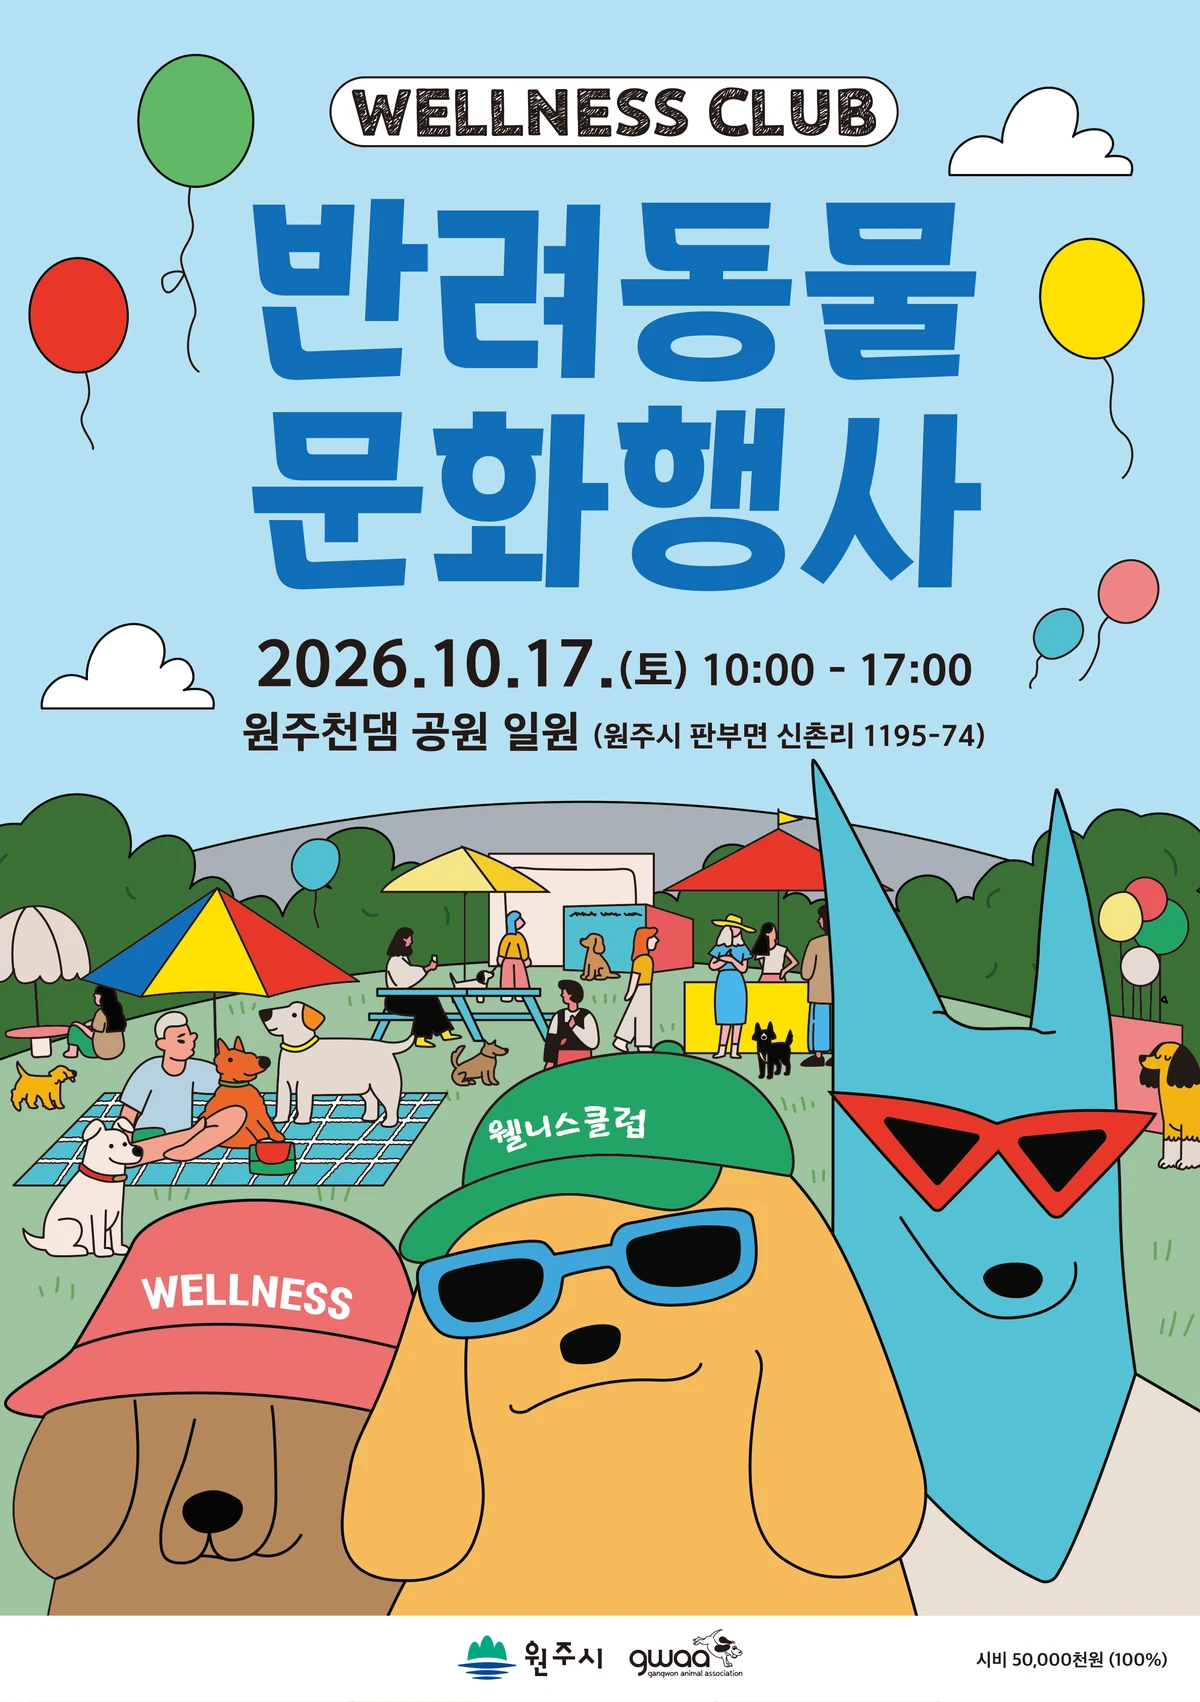
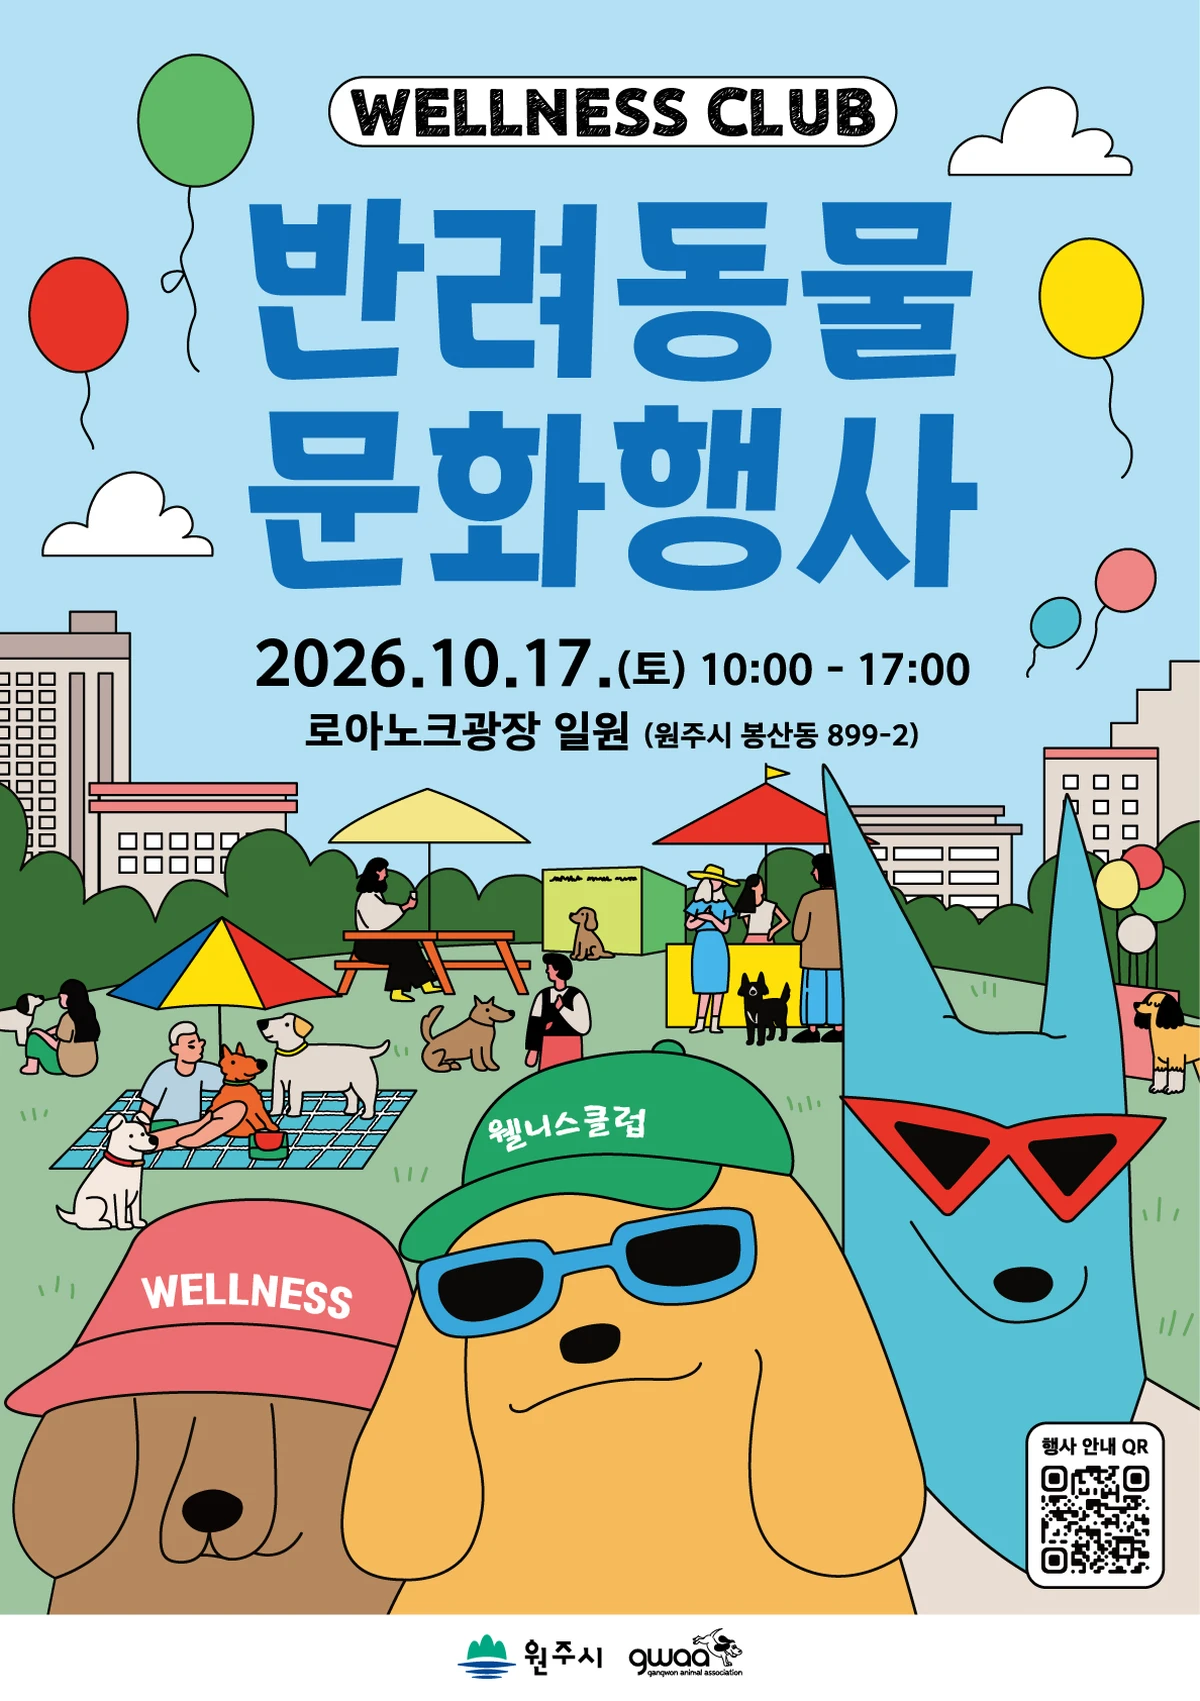
content: 2026 원주 웰니스클럽 장소 변경(원주천댐공원→로아노크광장, 봉산동 899-2) + 포스터 추가
- 행사 상세·FAQ·안내 메일의 장소/주소를 로아노크광장으로 수정
- wonju-2026 포스터 갤러리 이미지 추가

diff --git a/app/events/[id]/page.tsx b/app/events/[id]/page.tsx
@@ -49,10 +49,10 @@ type EventSeo = {
 const EVENT_SEO: Record<number, EventSeo> = {
   5: {
     start: '2026-10-17T10:00:00+09:00', end: '2026-10-17T17:00:00+09:00',
-    venue: '원주천댐 공원', address: '강원특별자치도 원주시 판부면 신촌리 1195-74', price: 0, region: '강원 원주',
-    desc: '10월 17일(토), 강원 원주 원주천댐 공원. 반려동물 문화행사 웰니스클럽 — 웰니스 클래스, 오프리쉬 놀이터, 프리마켓·체험부스와 함께하는 가을 힐링 축제. 누구나 무료 참여. 주최 원주시·주관 GWAA.',
+    venue: '로아노크광장', address: '강원특별자치도 원주시 봉산동 899-2', price: 0, region: '강원 원주',
+    desc: '10월 17일(토), 강원 원주 로아노크광장(봉산동 899-2). 반려동물 문화행사 웰니스클럽 — 웰니스 클래스, 오프리쉬 놀이터, 프리마켓·체험부스와 함께하는 가을 힐링 축제. 누구나 무료 참여. 주최 원주시·주관 GWAA.',
     faqs: [
-      { q: '2026 웰니스클럽은 언제, 어디서 열리나요?', a: '2026년 10월 17일(토) 10:00~17:00, 강원 원주 원주천댐 공원 일원에서 열립니다.' },
+      { q: '2026 웰니스클럽은 언제, 어디서 열리나요?', a: '2026년 10월 17일(토) 10:00~17:00, 강원 원주 로아노크광장(원주시 봉산동 899-2) 일원에서 열립니다.' },
       { q: '참가비가 있나요?', a: '누구나 무료로 참여할 수 있는 원주시 반려동물 문화행사입니다.' },
       { q: '어떤 프로그램이 있나요?', a: '반려동물 웰니스 클래스, 오프리쉬 놀이터, 프리마켓·체험부스 등 반려견과 함께 쉬어가는 가을 힐링 프로그램이 준비돼 있습니다.' },
       { q: '프리마켓 셀러로 참여할 수 있나요?', a: '네. gwaa.or.kr/sellers 에서 온라인으로 셀러 신청을 받고 있으며, 협회 심사 후 선정 결과를 안내드립니다.' },

diff --git a/lib/email.ts b/lib/email.ts
@@ -282,7 +282,7 @@ export function sellerSelectEmailHtml(s: SellerLite, isTest = false) {
       2026 원주시 반려동물 문화행사 <b>&lt;웰니스클럽&gt;</b> 프리마켓 셀러로 <b>선정</b>되셨습니다. 함께해 주셔서 감사합니다!</p>
       <div style="background:#EDFAF8;border:1px solid #BFF3EC;border-radius:10px;padding:14px 16px;margin:16px 0;font-size:14px;color:#0D7E76;line-height:1.9">
         ▪ 일시 : <b>2026. 10. 17.(토) 10:00 ~ 17:00</b><br/>
-        ▪ 장소 : <b>원주천댐 공원 일원 (강원 원주)</b><br/>
+        ▪ 장소 : <b>로아노크광장 일원 (원주시 봉산동 899-2)</b><br/>
         ▪ 부스 위치·집결 시간 등 운영 세부사항은 <b>개별 안내</b>드립니다.
       </div>
       ${isFee ? feeBox : sponsorBox}

diff --git a/app/events/[id]/EventDetailClient.tsx b/app/events/[id]/EventDetailClient.tsx
@@ -27,6 +27,7 @@ const SELLER_EVENT_IDS = [4];
 // 행사별 히어로 배경 이미지 오버라이드 (기본은 갤러리 첫 이미지)
 const HERO_OVERRIDE: Record<number, string> = {
   3: '/images/events/jamboree-2026/hero-1.webp',
+  5: '/images/events/wonju-2026/poster.webp',
 };
 // 행사별 히어로 자동 전환 슬라이드 (2장 이상이면 크로스페이드로 순환)
 const HERO_SLIDES: Record<number, string[]> = {
